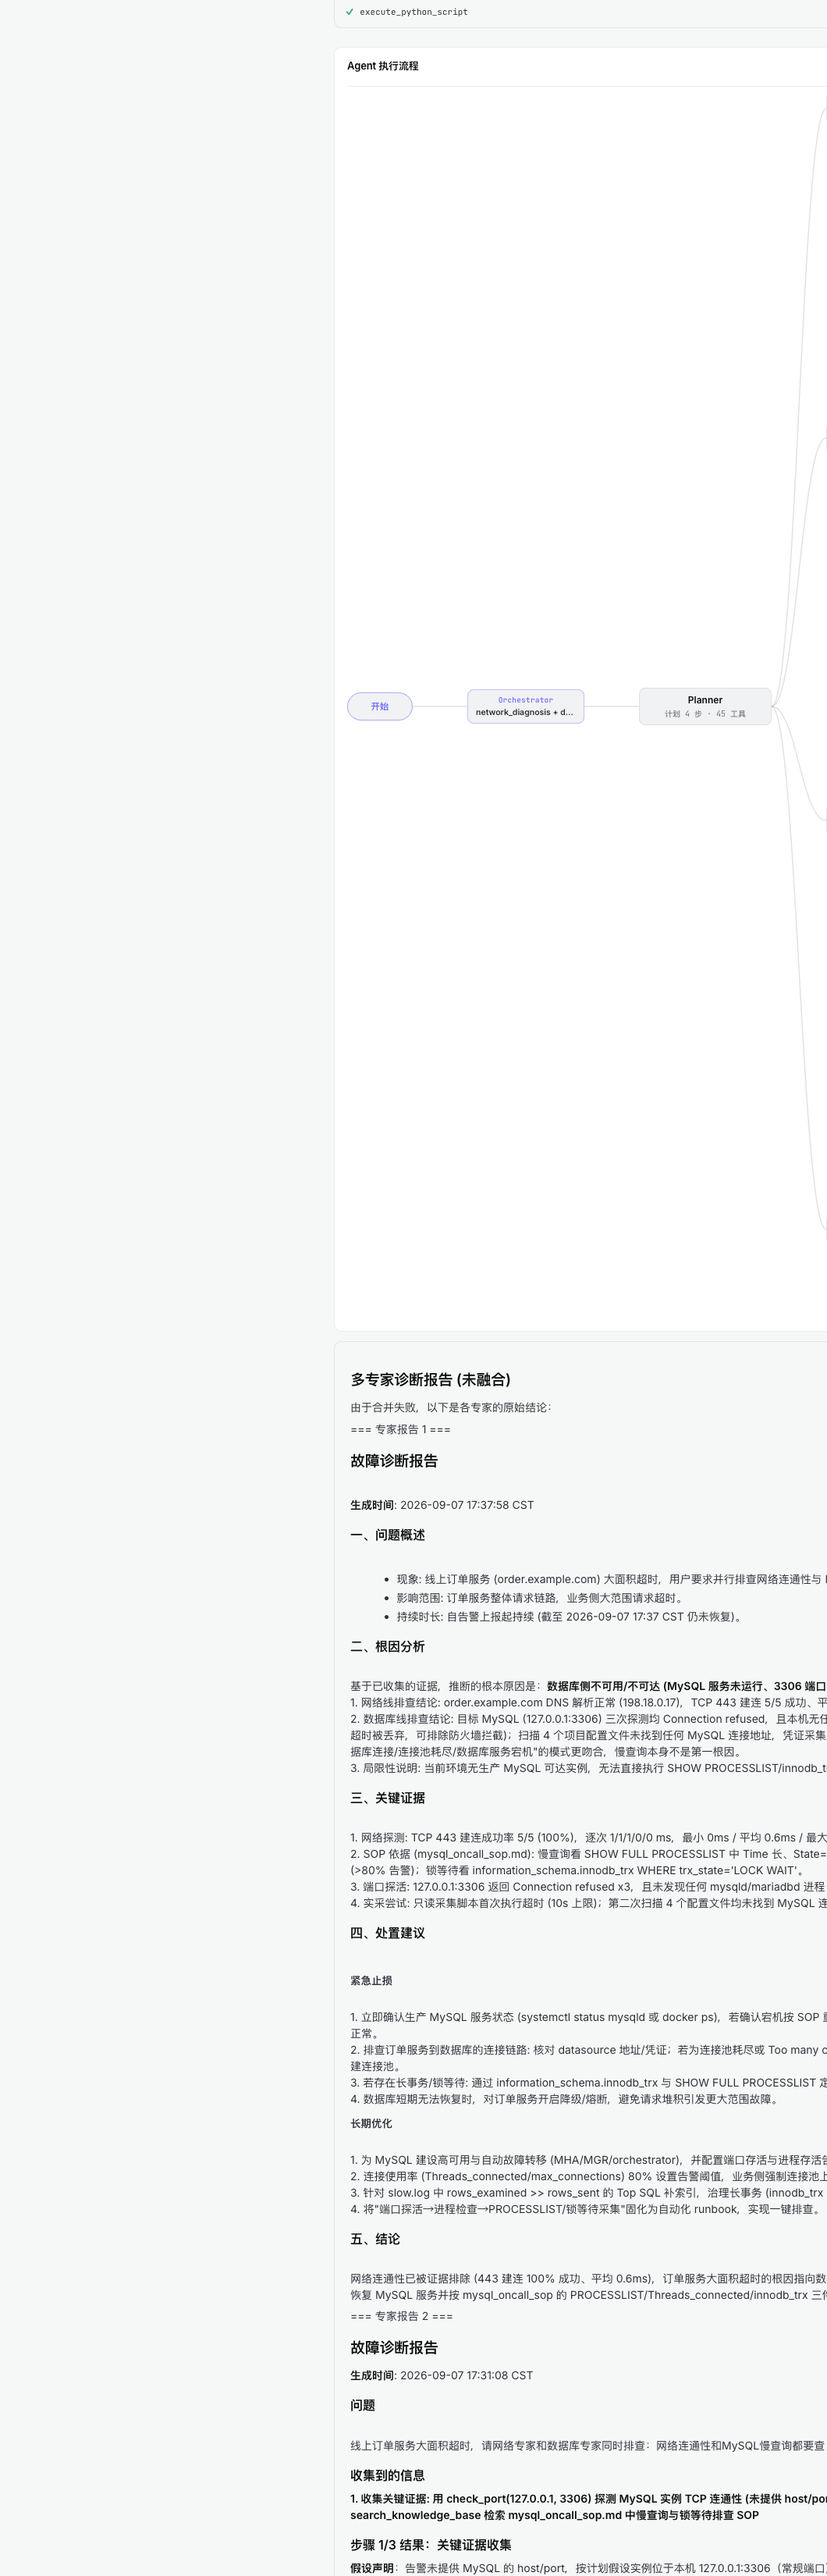
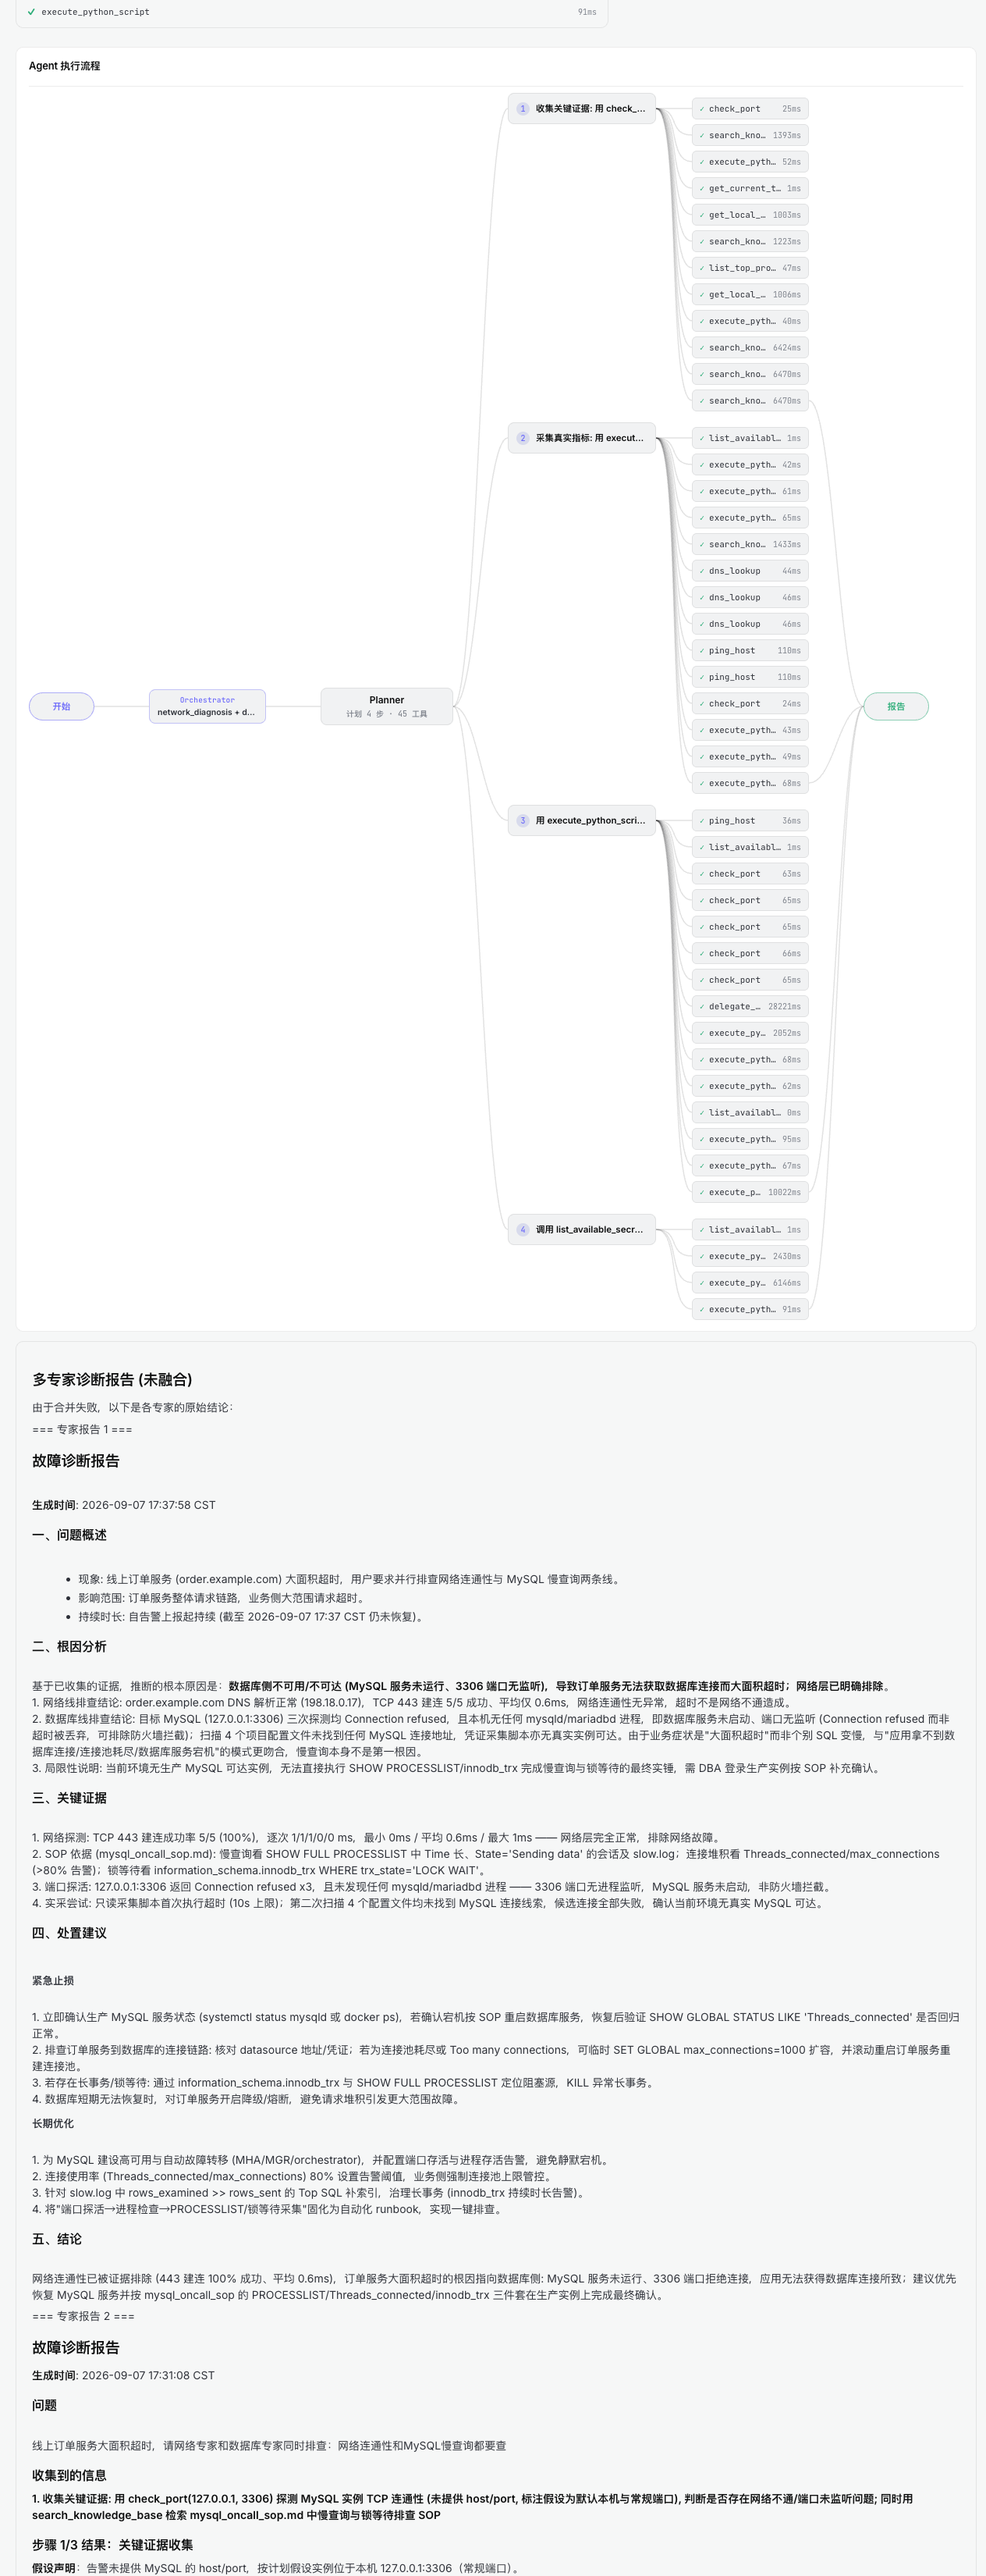
docs(readme): replace final-state screenshot with user full-page capture + fix light clip coords
- 完成态图换成用户抓的全页截图 (技能卡->步骤->工具流水->DAG->双专家报告->HITL 审批全链路)
- 图注改正: 本次 Merger 融合超时, 界面按无人值守纪律降级为并排展示两份专家原始报告
- 亮色 clip 从内容区左缘截取, 修掉 x=0 空白+右缘截断

diff --git a/README.md b/README.md
@@ -30,11 +30,11 @@ Orchestrator 判定故障跨越网络/数据库两个域，通过 LangGraph `Sen
 
 ![多专家并行执行中](docs/images/fanout-running.png)
 
-**2. 完成态 — Agent 执行流程 DAG + Merger 融合报告（暗色主题）**
+**2. 完成态 — Agent 执行流程 DAG + 双专家报告 + HITL 自愈审批（暗色主题，全页截图）**
 
-执行链路以真 DAG 呈现：开始 → 选派专家(Orchestrator) → Planner → 各步骤及其工具子列 → 报告；工具芯片（✓/✗ + 耗时）可点击展开查看每一步的真实输入/输出。本次双专家真实探测结论：3306 端口 Connection refused（RST 而非超时 = 无监听）、订单服务 8080 不可达、公网链路正常，融合判定「MySQL 实例宕机导致超时，网络侧无问题」：
+执行链路以真 DAG 呈现：开始 → 选派专家(Orchestrator) → Planner → 各步骤及其工具子列（✓/✗ + 耗时，可点击展开真实输入/输出）→ 报告。本次双专家真实探测结论：3306 端口 Connection refused（RST 而非超时 = 无监听）、订单服务 8080 不可达、公网链路正常，根因判定「MySQL 实例宕机导致超时，网络侧无问题」。报告区含两份专家原始报告与处置建议（紧急止损 + 长期优化）；Merger 融合超时时按无人值守纪律降级为并排展示原始报告，末尾 HITL 卡给出提议的自愈方案，等用户「授权并执行修复」或「拒绝执行」：
 
-![融合报告暗色](docs/images/fanout-final-dark.png)
+![完成态全页](docs/images/fanout-fullpage.png)
 
 **3. 亮色主题**
 
